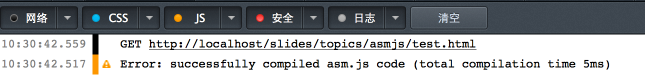
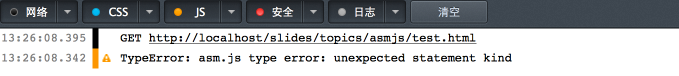
Update asmjs topic

diff --git a/topics/asmjs/index.html b/topics/asmjs/index.html
@@ -6,11 +6,11 @@
         <link rel=stylesheet type=text/css href="../../css/slide.css" />
         <link rel=stylesheet type=text/css href="../../css/desert.css" />
         <style type="text/css">
-            /*
+            
             html,h1,h2,h3,h4,h5{
                 font-family: "Lato", sans-serif;
             }
-            */
+            
             h1 {
                 margin-top: 200px;
             }
@@ -270,7 +270,7 @@ function asmModule(stdlib, foreign, heap) {
                     Type Annotation
                 </h2>
                 <pre class="prettyprint item" style="font-size:20px;">
-// Unsigned Int
+// Int
 a = a | 0;
 
 // Double
@@ -282,14 +282,12 @@ a = +a;
                 <img src="imgs/error2.png" alt="" class="item" width="700" style="margin:30px auto;display:block;">
                 <img src="imgs/error3.png" alt="" class="item" width="700" style="margin:30px auto;display:block;">
                 <img src="imgs/error4.png" alt="" class="item" width="700" style="margin:30px auto;display:block;">
+                <img src="imgs/success.png" alt="" class="item" width="700" style="margin:30px auto;display:block;">
             </article>
             <article>
                 <h2>
                     Performance
                 </h2>
-            </article>
-            <article>
-                <h1>LLJS</h1>
             </article>
             <article>
                 <h1>ThankS</h1>
@@ -331,7 +329,7 @@ a = +a;
                 itemClass : 'item',
 
                 actions : {
-
+                    
                 }
             })
         </script>

diff --git a/topics/asmjs/test.html b/topics/asmjs/test.html
@@ -11,6 +11,7 @@
                 // Variable Declarations
                 var sqrt = stdlib.Math.sqrt;
 
+
                 // Function Declarations
                 function square(x) {
                     x = +x;
@@ -21,6 +22,7 @@
                     x = +x;
                     y = +y;
                     x = +10;
+                    var c = [];
                     return +sqrt(+square(x) + +square(y));
                 }
 
@@ -31,7 +33,6 @@
             }
 
             var module = DiagModule(window);
-            alert(module.square(10));
         </script>
     </body>
 </html>
